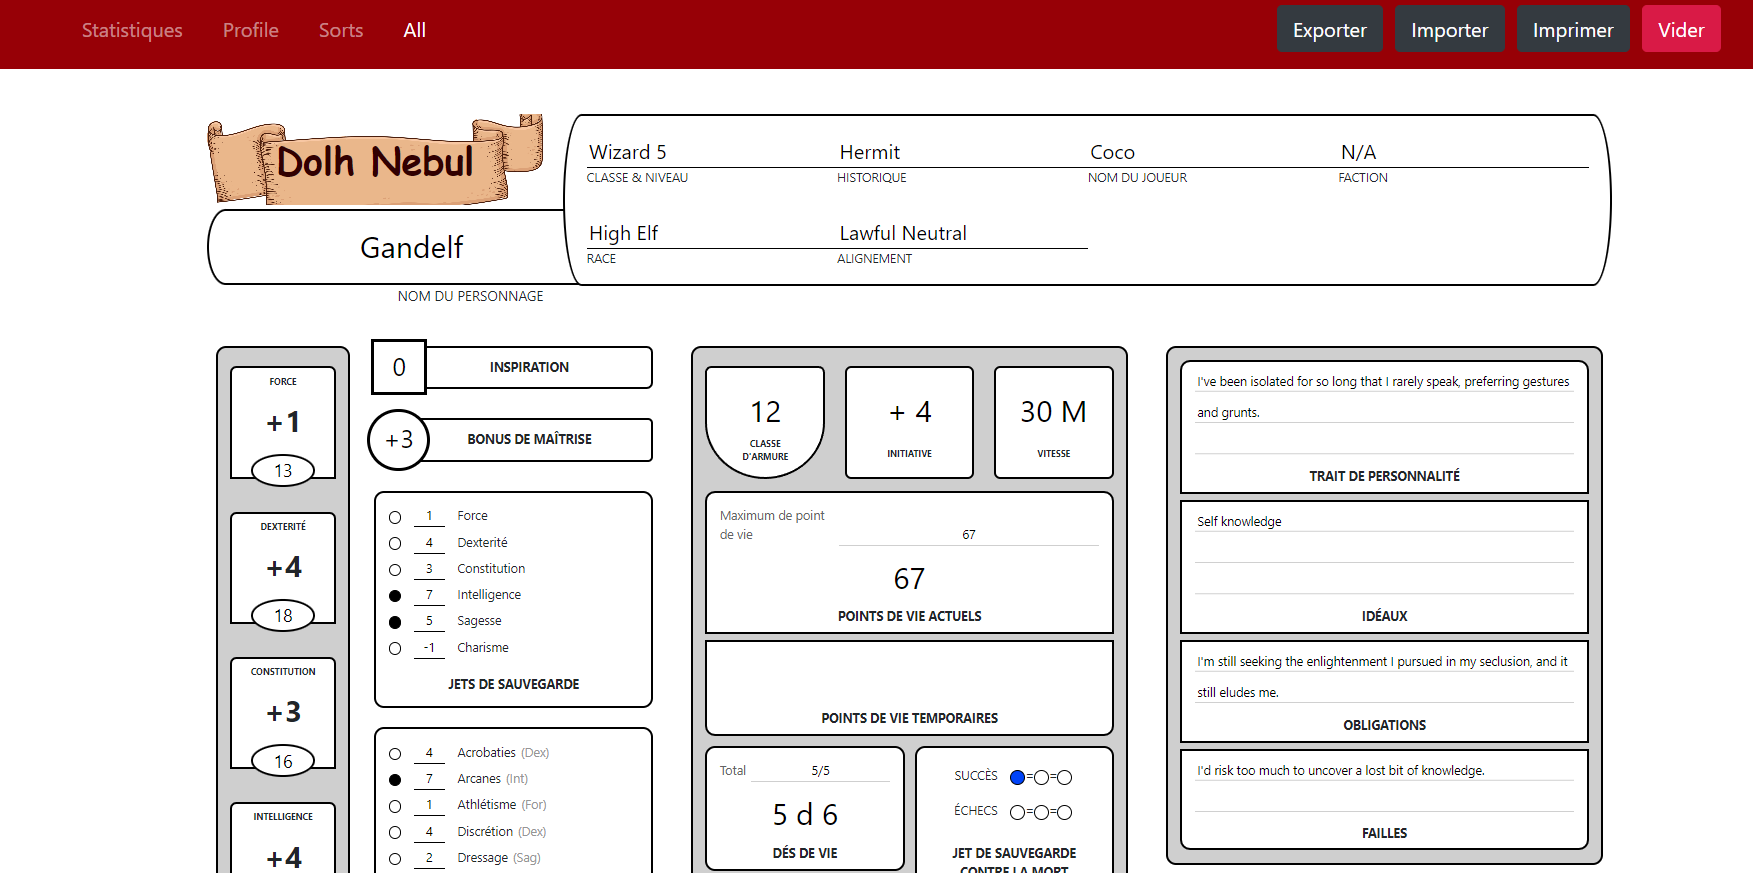
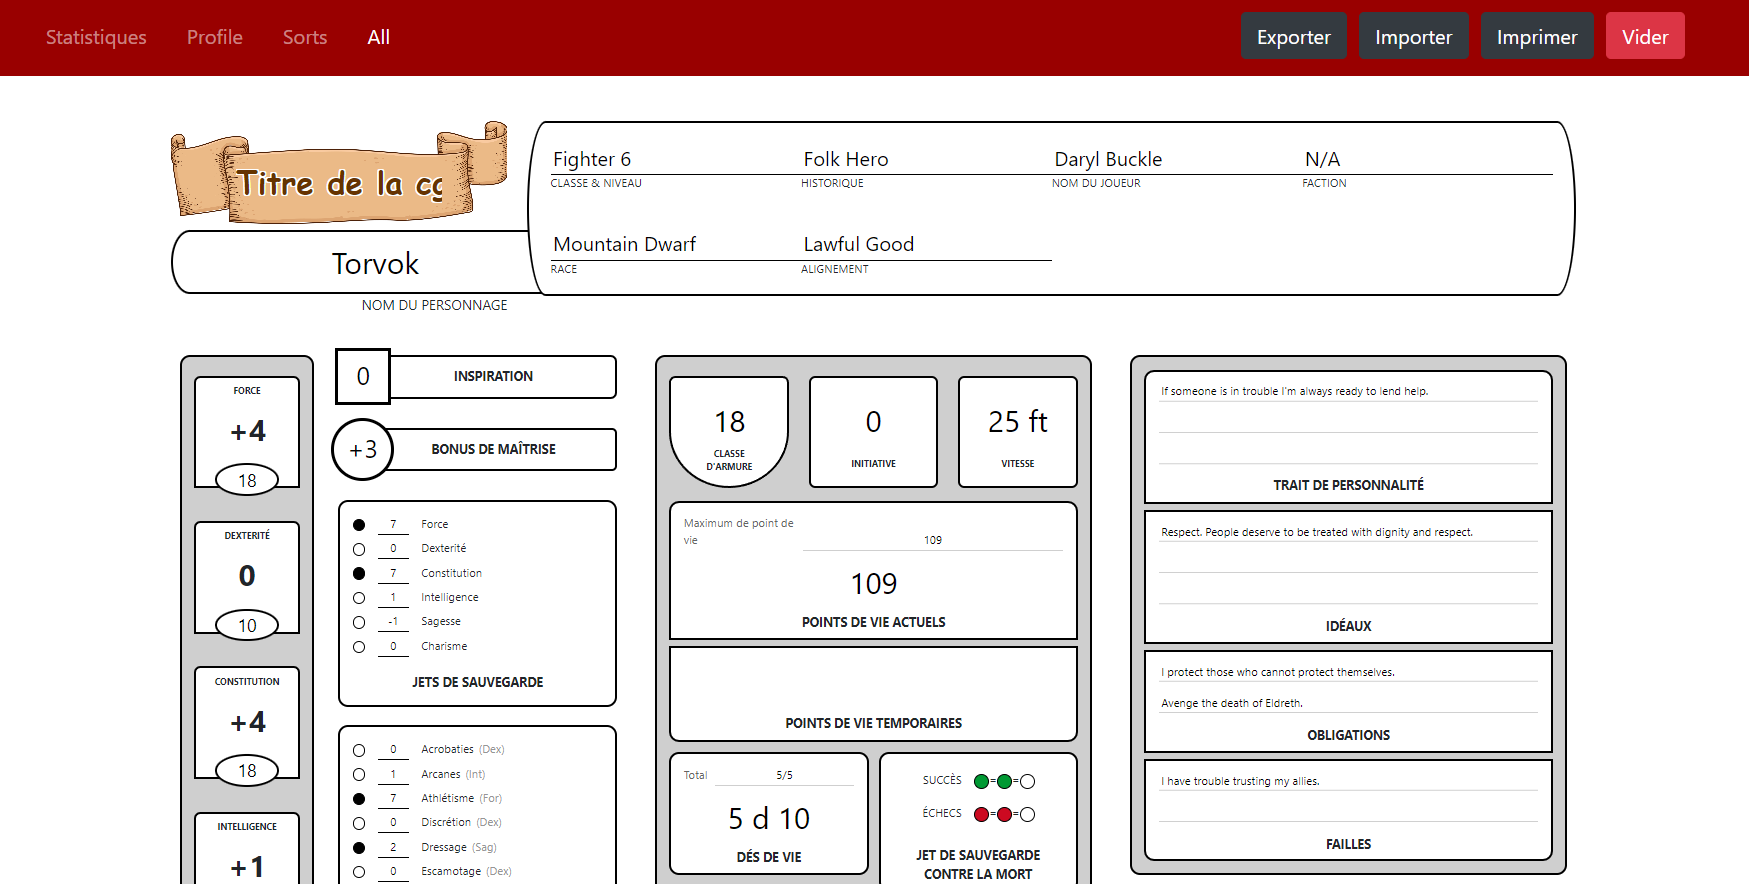
Minor improvments

Changed region(s): [[0.0926, 0.1237, 0.9262, 1.0], [0.0, 0.0, 1.0, 0.0928], [0.8954, 0.1546, 0.9262, 0.3093]]

diff --git a/example/src/styles/dnd-character-sheets.css b/example/src/styles/dnd-character-sheets.css
@@ -1,5 +1,5 @@
 .d-and-d-character-sheet {
-  font-size: 10px;
+  font-size: 9px;
 }
 
 .d-and-d-character-sheet input[type=text] {
@@ -8,18 +8,36 @@
   width: 100%;
 }
 
+.d-and-d-character-sheet .d-and-d-attribute-collection .row {
+  padding-bottom: 5px;  /* Add this line */
+}
+
 .d-and-d-character-sheet .d-and-d-page-title {
-  font-size: 30px;
-  padding: 14px 20px;
+  padding: 14px 50px;
   background-image: url("banner.png");
   background-repeat: no-repeat;
   background-size: cover;
   background-position: center;
-  text-align: center;
-  color: rgb(51, 0, 0);
-  font-weight: bold;
-  font-family: cursive;
-  margin-bottom: 1%;
+  margin-bottom: 5px;
+  & input {
+    background: transparent;
+    margin-top: 15px;
+    border: none;
+    font-size: 25px;
+    text-align: center;
+    width: 100%;
+    color: rgb(102, 51, 0);
+    font-weight: bold;
+    font-family: cursive;
+    text-shadow: -1px -1px 0 #fff,
+    1px -1px 0 #fff,
+    -1px 1px 0 #fff,
+    1px 1px 0 #fff;
+  }
+  & input:focus {
+    outline: none;
+    /* Add any focus styles you want */
+  }
 }
 
 .d-and-d-character-sheet textarea
@@ -213,7 +231,7 @@
   border-bottom-left-radius: 15px 50%;
   border-top-right-radius: 15px 50%;
   border-bottom-right-radius: 15px 50%;
-  padding-bottom: 5px;
+  /* padding-bottom: 5px; */
   background-color: white;
 }
 .d-and-d-character-sheet .d-and-d-attribute-collection.gray {
@@ -240,7 +258,7 @@
 .d-and-d-character-sheet .d-and-d-attribute-collection.char-name input {
   padding-left: 10px;
   font-size: 24px;
-  margin-top: 10px;
+  margin-top: 5px;
   margin-bottom: 5px;
   border-bottom: none;
   text-align: center;
@@ -295,7 +313,7 @@
 }
 
 .d-and-d-character-sheet .d-and-d-save-success .d-and-d-skill-circle.active {
-  background-color: rgb(0, 50, 255)
+  background-color: rgb(0, 153, 51)
 }
 .d-and-d-character-sheet .d-and-d-save-failure .d-and-d-skill-circle.active {
   background-color: rgb(204, 10, 33)

diff --git a/src/DnDCharacterStatsSheet.tsx b/src/DnDCharacterStatsSheet.tsx
@@ -10,6 +10,7 @@ import StatBox2 from './Components/StatBox2'
 import DeathSave from './Components/DeathSave'
 import AttackTable from './Components/AttackTable'
 import Currency from './Components/Currency'
+import PageTitle from './Components/PageTitle'
 
 import './dndstyles.css'
 
@@ -77,7 +78,12 @@ class DnDCharacterStatsSheet extends React.Component<
         <div>
           <div className='row mb-4'>
             <div className='col-md-3 pr-2 pl-2'>
-              <div className='d-and-d-page-title'>Dolh Nebul</div>
+              <div className='d-and-d-page-title'>
+                <PageTitle 
+                  value={character.pageTitle} 
+                  onChange={(value) => this.updateCharacter('pageTitle', value)}
+                />
+              </div>
               <div className='d-and-d-attribute-collection char-name pr-3 pl-3'>
                 <input
                   type='text'

diff --git a/src/DnDCharacterSpellSheet.tsx b/src/DnDCharacterSpellSheet.tsx
@@ -7,6 +7,7 @@ import StatBox2 from './Components/StatBox2'
 
 import './dndstyles.css'
 import SpellTable from './Components/SpellTable'
+import PageTitle from './Components/PageTitle'
 
 interface IDnDCharacterSpellsSheetProps {
   character?: DnDCharacter
@@ -72,7 +73,12 @@ class DnDCharacterSpellsSheet extends React.Component<
         <div>
           <div className='row mb-4'>
             <div className='col-md-3 pr-2 pl-2'>
-              <div className='d-and-d-page-title'>Dolh Nebul</div>
+            <div className='d-and-d-page-title'>
+                <PageTitle 
+                  value={character.pageTitle} 
+                  onChange={(value) => this.updateCharacter('pageTitle', value)}
+                />
+              </div>
               <div className='d-and-d-attribute-collection char-name pr-3 pl-3'>
                 <input
                   type='text'

diff --git a/src/DnDCharacterProfileSheet.tsx b/src/DnDCharacterProfileSheet.tsx
@@ -6,6 +6,7 @@ import DnDCharacter from './DnDCharacter'
 
 import StatRow from './Components/StatRow'
 import Image from './Components/Image'
+import PageTitle from './Components/PageTitle';
 
 import './dndstyles.css'
 
@@ -73,7 +74,12 @@ class DnDCharacterProfileSheet extends React.Component<
         <div>
           <div className='row mb-4'>
             <div className='col-md-3 pr-2 pl-2'>
-              <div className='d-and-d-page-title'>Dolh Nebul</div>
+              <div className='d-and-d-page-title'>
+                <PageTitle 
+                  value={character.pageTitle} 
+                  onChange={(value) => this.updateCharacter('pageTitle', value)}
+                />
+              </div>
               <div className='d-and-d-attribute-collection char-name pr-3 pl-3'>
                 <input
                   type='text'

diff --git a/src/Components/PageTitle.tsx b/src/Components/PageTitle.tsx
@@ -1,0 +1,21 @@
+import React from 'react';
+
+interface PageTitleProps {
+  value?: string;
+  onChange?: (value: string) => void;
+}
+
+const PageTitle: React.FC<PageTitleProps> = ({ value = "Titre de la campagne", onChange }) => {
+  return (
+    <div>
+      <input 
+        type="text" 
+        placeholder="Titre de la campagne" 
+        value={value}
+        onChange={(e) => onChange?.(e.target.value)}
+      />
+    </div>
+  );
+};
+
+export default PageTitle;

diff --git a/src/DnDCharacter.tsx b/src/DnDCharacter.tsx
@@ -1,5 +1,6 @@
 export default class DnDCharacter {
   name?: string
+  pageTitle?: string
   classLevel?: string
   background?: string
   playerName?: string
